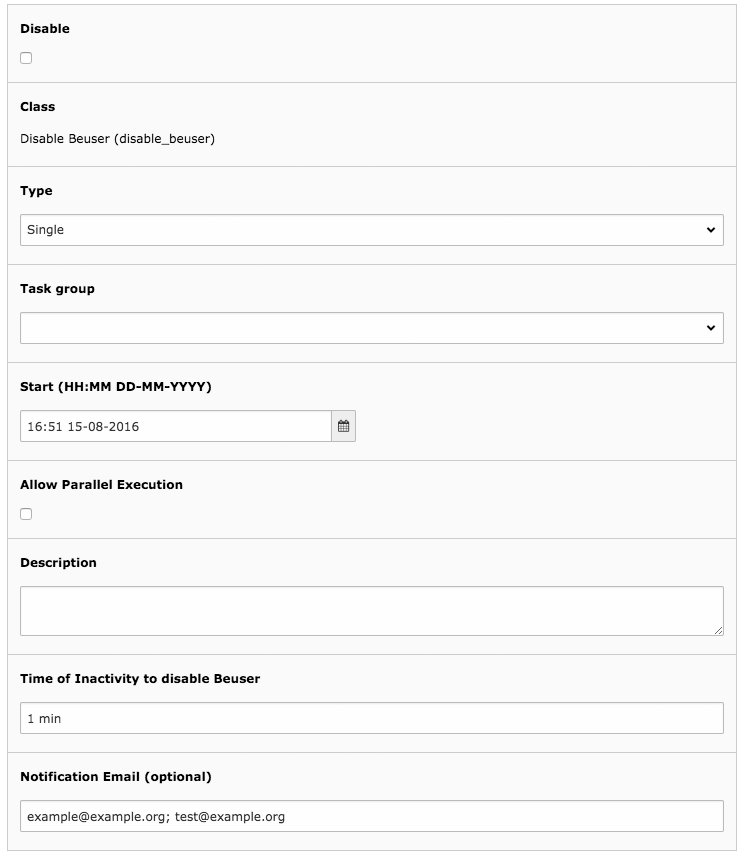
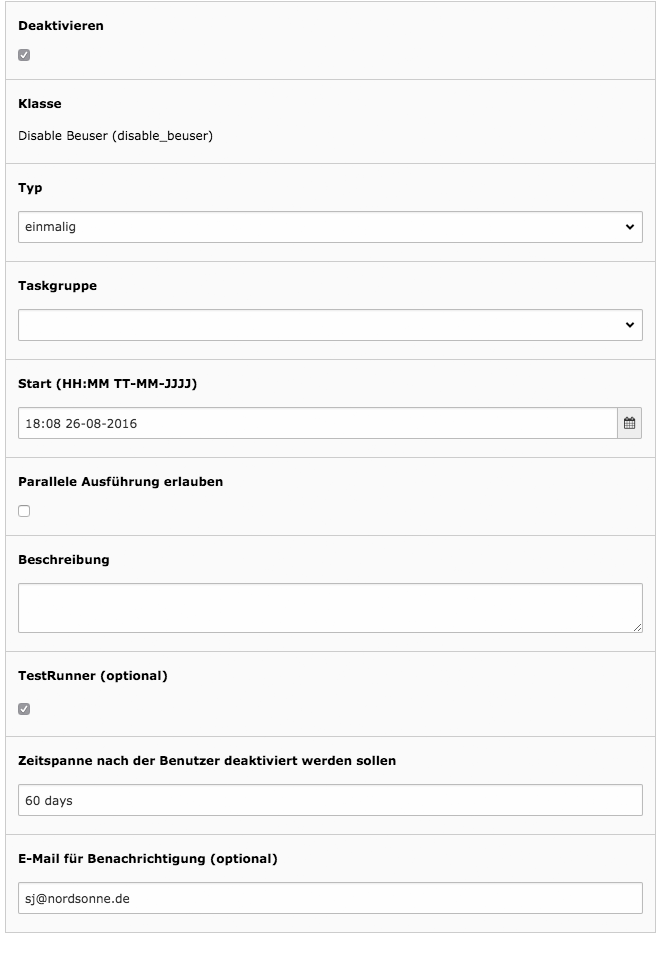
Update Documentation

diff --git a/Classes/Task/DisableBeuser.php b/Classes/Task/DisableBeuser.php
@@ -30,7 +30,6 @@ class DisableBeuser
     public function run($time, $notificationEmail, $testRunner)
     {
         $this->isTestRunner = $testRunner;
-        $returnValue = true;
         $timestamp = $this->convertToTimeStamp($time);
         $this->sendNotificationEmail = !empty($notificationEmail);
 

diff --git a/ext_emconf.php b/ext_emconf.php
@@ -21,7 +21,7 @@ $EM_CONF[$_EXTKEY] = array(
     'uploadfolder' => '0',
     'createDirs' => '',
     'clearCacheOnLoad' => 1,
-    'version' => '1.2.1',
+    'version' => '1.3.0',
     'constraints' => array(
         'depends' => array(
             'typo3' => '6.2.0-8.2.99'

diff --git a/Documentation/AdministratorManual/Index.rst b/Documentation/AdministratorManual/Index.rst
@@ -88,3 +88,7 @@ If you set an email address you get the date and a list with disabled user from 
 	:alt: Screenshot of Scheduler Task
 
 	Disable Beuser Scheduler Task
+
+**Input field: "TestRunner (optional) "**
+
+with this field checked, you only make a test run and no user status where changed

diff --git a/Documentation/Introduction/Index.rst b/Documentation/Introduction/Index.rst
@@ -9,7 +9,7 @@
 What does it do?
 ================
 
-This extenison integrate a scheduler task to disable backend user after a configurable amount of time.
+This extension integrate a scheduler task to disable backend user after a configurable amount of time.
 
 
 

diff --git a/Documentation/Index.rst b/Documentation/Index.rst
@@ -36,7 +36,7 @@ Disable BeUser Task
 		Sven Jürgens
 
 	:Email:
-		t3@blue-side.de
+		sj@nordsonne.de
 
 	:License:
 		This document is published under the Open Content License
